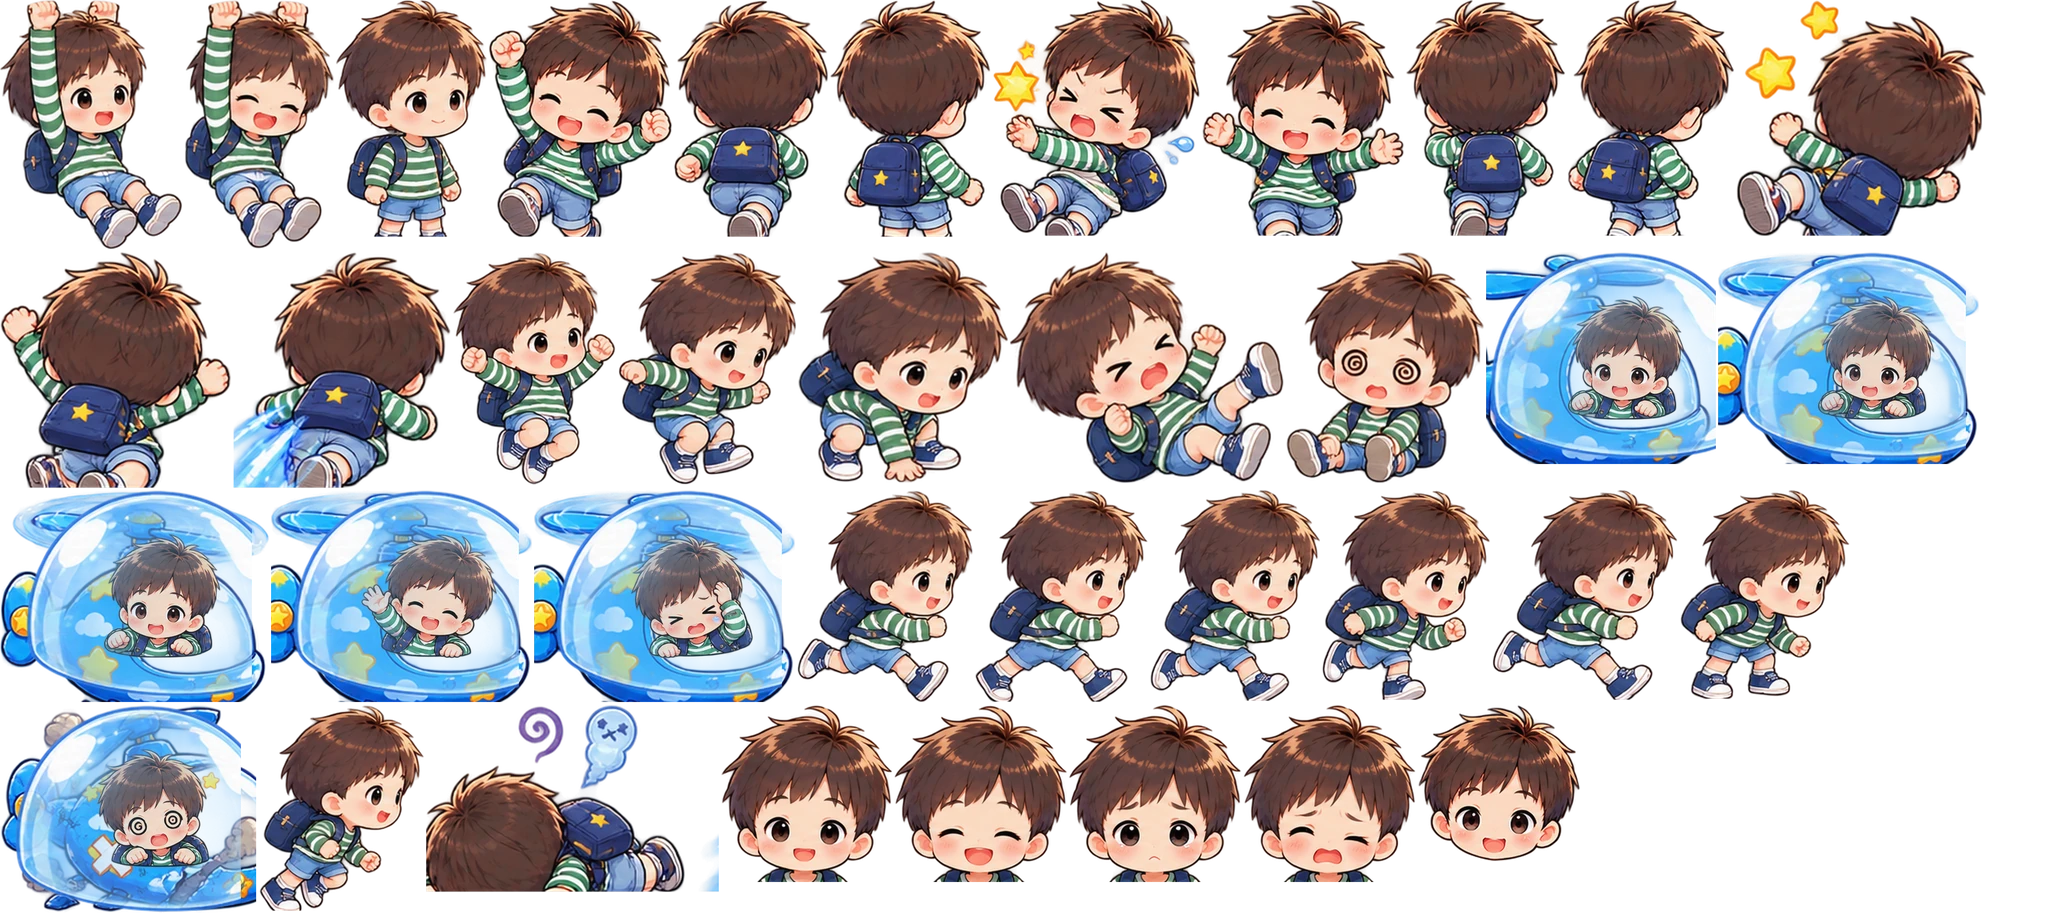
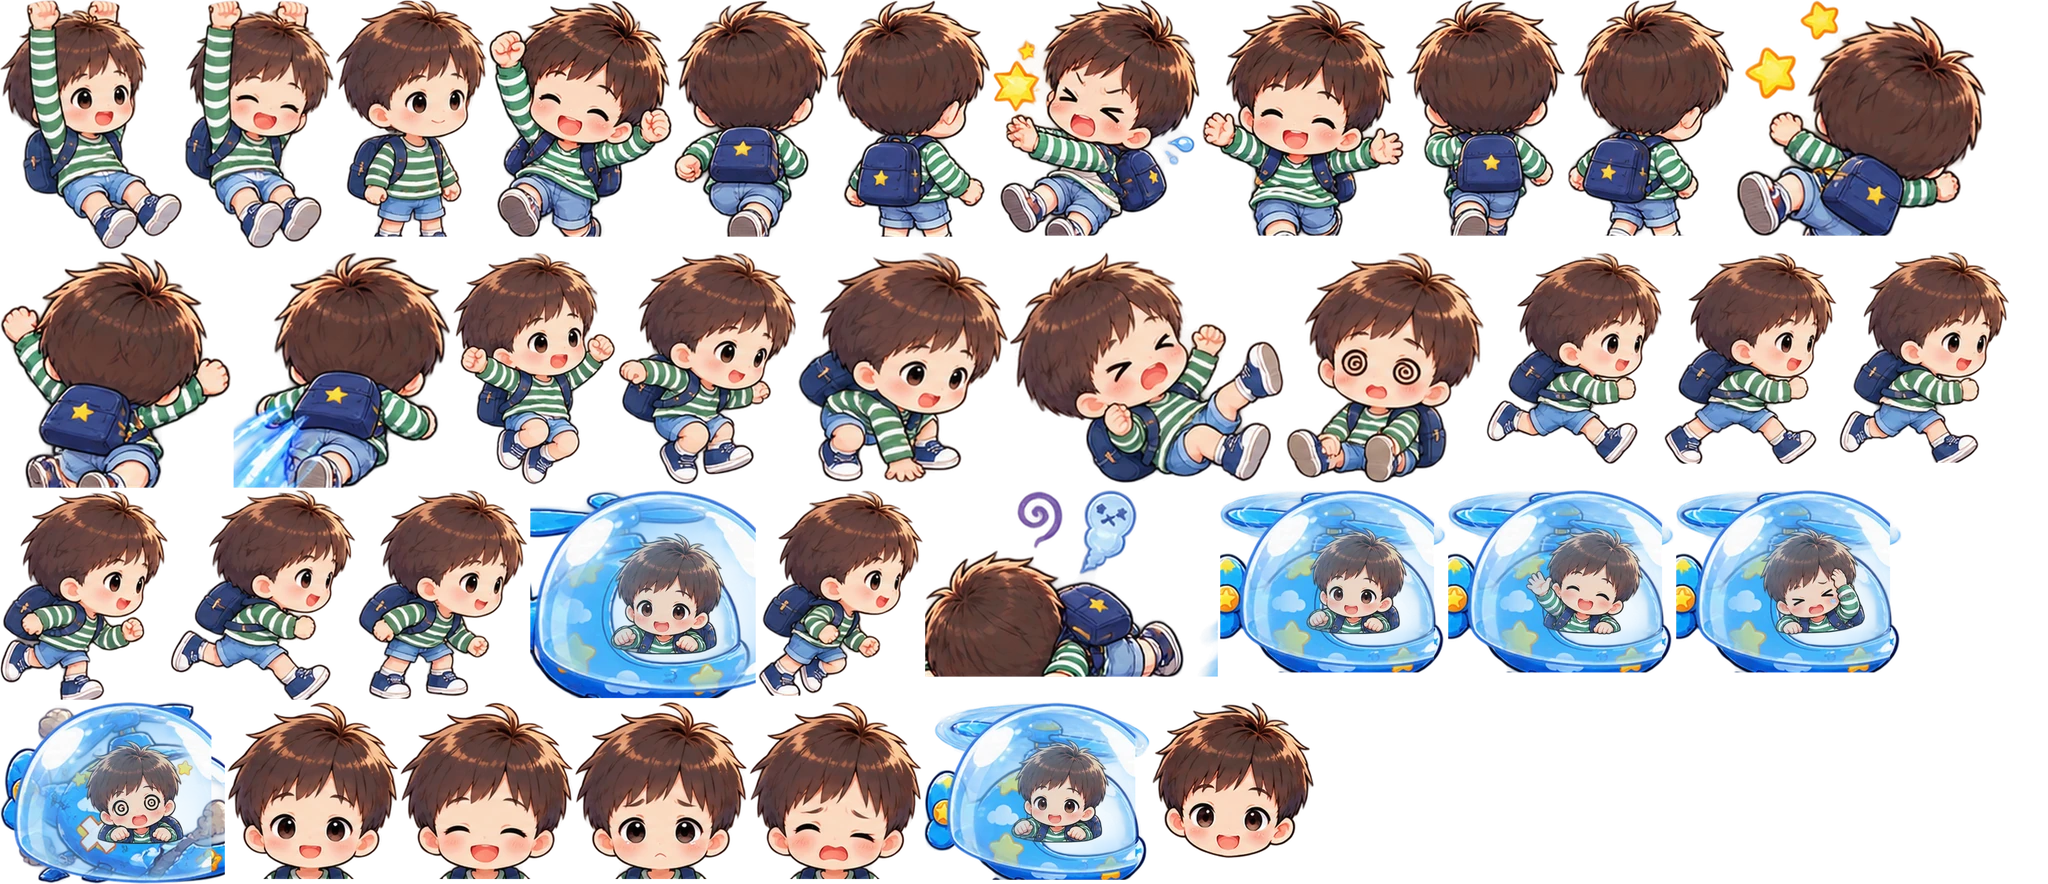
새 캐릭터 은유 v2 추가 (새 그림 팩), 인트로 뒤로 버튼을 디자이너 버튼 그림으로

diff --git a/common/charv2.js b/common/charv2.js
@@ -8,16 +8,16 @@
   // 게임에 쓸 수 있는 v2 캐릭터 (base: 같은 계열 기본 캐릭터 — 색·예비 그림에 씀)
   const LOOKS = {
     eungyeol2: { base: 'eungyeol', name: '은결 v2' },
-    // eunyu2: { base: 'eunyu', name: '은유 v2' },  // 그림 팩을 다시 받으면 build_char_v2.py로 만들고 여기 켜기
+    eunyu2: { base: 'eunyu', name: '은유 v2' },
   };
-  const BODY_H = 393 / 512, FOOT = 488 / 512, HANG = 64 / 512;
+  const BODY_H = 393 / 512, FOOT = 488 / 512;
   const base = (document.currentScript && document.currentScript.src.replace(/common\/charv2\.js.*$/, '')) || '../';
   const atlas = {};
   function load(look) {
     if (!LOOKS[look] || atlas[look]) return;
     const a = atlas[look] = { img: new Image(), f: null, ok: false };
-    fetch(`${base}common/chars/${look}.json?v=20261023s`).then((r) => r.json()).then((j) => {
-      a.f = j.frames; a.img.onload = () => { a.ok = true; }; a.img.src = `${base}common/chars/${look}.webp?v=20261023s`;
+    fetch(`${base}common/chars/${look}.json?v=20261023t`).then((r) => r.json()).then((j) => {
+      a.f = j.frames; a.img.onload = () => { a.ok = true; }; a.img.src = `${base}common/chars/${look}.webp?v=20261023t`;
     }).catch(() => { /* 그림이 없으면 기본 그림으로 */ });
   }
   const get = (look, name) => { const a = atlas[look]; return a && a.ok && a.f[name] ? [a, a.f[name]] : null; };
@@ -33,7 +33,8 @@
       const hit = get(look, name); if (!hit) return false;
       const [a, [x, y, w, h, ox, oy, cw, ch]] = hit;
       const s = (o.h || 118) / (BODY_H * ch);
-      const top = o.anchor === 'hang' ? (o.hangTop != null ? o.hangTop : -100) - HANG * ch * s : -FOOT * ch * s;
+      // 매달리기: 그림 맨 위(줄 잡은 손)가 hangTop에 오게
+      const top = o.anchor === 'hang' ? (o.hangTop != null ? o.hangTop : -100) - oy * s : -FOOT * ch * s;
       g.save();
       if (o.alpha != null) g.globalAlpha *= o.alpha;
       if (o.rot) g.rotate(o.rot);

diff --git a/index.html b/index.html
@@ -105,7 +105,8 @@
       <div class="looks">
         <button class="look" data-look="eunyu"><img src="skyhook/assets/eunyu_base.jpg" alt=""><span>은유 스타일</span></button>
         <button class="look" data-look="eungyeol"><img src="skyhook/assets/eungyeol_base.jpg" alt=""><span>은결 스타일</span></button>
-        <button class="look v2" data-look="eungyeol2"><img src="skyhook/assets/eungyeol2_base.jpg?v=20261023s" alt=""><span>은결 v2 <i class="new">NEW</i></span></button>
+        <button class="look v2" data-look="eunyu2"><img src="skyhook/assets/eunyu2_base.jpg?v=20261023t" alt=""><span>은유 v2 <i class="new">NEW</i></span></button>
+        <button class="look v2" data-look="eungyeol2"><img src="skyhook/assets/eungyeol2_base.jpg?v=20261023t" alt=""><span>은결 v2 <i class="new">NEW</i></span></button>
       </div>
       <label class="name-row">이름 <input id="inName" maxlength="8" autocomplete="off" placeholder="이름 (8글자까지)"></label>
       <div class="p-note">아이템샵에서 게임 배경 스킨과 부스트를 살 수 있어요!</div>
@@ -171,7 +172,7 @@
   <div id="scrTitle" class="title-scr hidden">
     <div id="tsBg" class="ts-bg"></div>
     <img id="tsArt" class="ts-art" alt="">
-    <button id="tsBack" class="ts-back" aria-label="뒤로">←</button>
+    <button id="tsBack" class="ts-back" aria-label="뒤로"><img src="hub/v3/back.png?v=20261023t" alt=""></button>
     <button id="tsStart" class="ts-start"><span class="ts-tri"></span>START</button>
   </div>
 

diff --git a/hub/hub.css b/hub/hub.css
@@ -400,3 +400,8 @@ img[src*="costumes/"] { object-fit: cover; object-position: 50% 0; background: #
 .look .new { font-style: normal; font-size: 11px; background: #FF5C7A; color: #fff; border-radius: 8px; padding: 0 5px; vertical-align: 2px; }
 #root.portrait .looks { flex-wrap: wrap; justify-content: center; }
 #root.portrait .look { width: 128px; }
+.char-card.eunyu2 { border-color: #FFB3CC; background: linear-gradient(#FFF0F6, #fff); }
+
+/* 인트로 화면 뒤로 버튼: 디자이너 버튼 그림 */
+.title-scr .ts-back { width: clamp(56px, 8vh, 76px); height: auto; aspect-ratio: 192 / 188; background: none; box-shadow: none; border-radius: 50%; padding: 0; filter: drop-shadow(0 4px 8px rgba(0,0,0,.25)); }
+.title-scr .ts-back img { display: block; width: 100%; height: 100%; }

diff --git a/shop/shop.js b/shop/shop.js
@@ -187,7 +187,7 @@ function renderDress() {
   for (const ch of Hub.chars()) {
     const b = document.createElement('button'); b.className = `dwho ${ch.look}` + (ch.id === c.id ? ' on' : '');
     b.innerHTML = `<img src="${faceOf(ch)}" alt=""><span></span>`;
-    b.querySelector('span').textContent = `${ch.name} (${ch.look === 'eunyu' ? '핑크' : '블루'})`;
+    b.querySelector('span').textContent = `${ch.name} (${ch.look.startsWith('eunyu') ? '핑크' : '블루'})`;
     b.onclick = () => { if (ch.id === c.id) return; blip(); Hub.setActive(ch.id); renderHeader(); renderAll(); openDress(); };
     who.appendChild(b);
   }

diff --git a/skyhook/index.html b/skyhook/index.html
@@ -114,7 +114,7 @@
   <div id="rotateHint" class="hidden">가로로 돌리면 더 크게 볼 수 있어요 ↻</div>
 </div>
 <script src="../common/profile.js?v=20261023k"></script>
-<script src="../common/charv2.js?v=20261023s"></script>
+<script src="../common/charv2.js?v=20261023t"></script>
 <script src="../common/costume.js?v=20261023k"></script>
 <script src="../common/skins.js?v=20261023k"></script>
 <script src="game.js?v=20261023k"></script>

diff --git a/helicopter/index.html b/helicopter/index.html
@@ -92,7 +92,7 @@
   <div id="rotateHint" class="hidden">가로로 돌리면 더 크게 볼 수 있어요 ↻</div>
 </div>
 <script src="../common/profile.js?v=20261023k"></script>
-<script src="../common/charv2.js?v=20261023s"></script>
+<script src="../common/charv2.js?v=20261023t"></script>
 <script src="../common/costume.js?v=20261023k"></script>
 <script src="../common/skins.js?v=20261023k"></script>
 <script src="game.js?v=20261023k"></script>

diff --git a/stairs/index.html b/stairs/index.html
@@ -96,7 +96,7 @@
   <div id="rotateHint" class="hidden">📱 세로로 세워서 하면 더 크게 보여요</div>
 </div>
 <script src="../common/profile.js?v=20261023k"></script>
-<script src="../common/charv2.js?v=20261023s"></script>
+<script src="../common/charv2.js?v=20261023t"></script>
 <script src="../common/costume.js?v=20261023k"></script>
 <script src="../common/skins.js?v=20261023k"></script>
 <script src="game.js?v=20261023k"></script>

diff --git a/downhill/index.html b/downhill/index.html
@@ -88,7 +88,7 @@
   </div>
 </div>
 <script src="../common/profile.js?v=20261023k"></script>
-<script src="../common/charv2.js?v=20261023s"></script>
+<script src="../common/charv2.js?v=20261023t"></script>
 <script src="../common/costume.js?v=20261023k"></script>
 <script src="../common/skins.js?v=20261023k"></script>
 <script src="game.js?v=20261023b"></script>

diff --git a/shisen/index.html b/shisen/index.html
@@ -90,7 +90,7 @@
 </div>
 <script src="../common/profile.js?v=20261023k"></script>
 <script src="../common/skins.js?v=20261023k"></script>
-<script src="../common/charv2.js?v=20261023s"></script>
+<script src="../common/charv2.js?v=20261023t"></script>
 <script src="../common/costume.js?v=20261023k"></script>
 <script src="game.js?v=20261023k"></script>
 </body>

diff --git a/common/profile.js b/common/profile.js
@@ -126,7 +126,7 @@
   };
 
   // 캐릭터 모양: 기본 은유·은결 + 새 캐릭터 v2 (그림은 common/chars, common/charv2.js)
-  const LOOKS = ['eunyu', 'eungyeol', 'eungyeol2'];
+  const LOOKS = ['eunyu', 'eungyeol', 'eunyu2', 'eungyeol2'];
   // 옷(코스튬) 그림이 있는 캐릭터
   const DRESSABLE = ['eunyu', 'eungyeol'];
 

diff --git a/tools/build_char_v2.py b/tools/build_char_v2.py
@@ -1,6 +1,7 @@
 """캐릭터 v2 팩(character/<캐릭터>_character_v2_png_assets)을 게임용 파일로 만든다.
 
-사용: python3 tools/build_char_v2.py eungyeol eungyeol2
+사용: python3 tools/build_char_v2.py eungyeol eungyeol2 [그림 폴더]
+  그림 폴더를 안 주면 character/<캐릭터>_character_v2_png_assets/character_v2/<캐릭터>/base
   - common/chars/<look>.webp + .json : 모든 게임이 쓰는 포즈 아틀라스 (common/charv2.js가 읽음)
   - 메뉴·결과 화면용 얼굴/전신 그림 (기존 파일 이름 규칙 그대로)
 """
@@ -11,7 +12,8 @@ from scipy import ndimage as nd
 
 src_name, look = sys.argv[1], sys.argv[2]
 ROOT = os.path.dirname(os.path.dirname(os.path.abspath(__file__)))
-SRC = f'{ROOT}/character/{src_name}_character_v2_png_assets/character_v2/{src_name}/base/{src_name}_base_'
+SRC_DIR = sys.argv[3] if len(sys.argv) > 3 else f'{ROOT}/character/{src_name}_character_v2_png_assets/character_v2/{src_name}/base'
+SRC = f'{SRC_DIR}/{src_name}_base_'
 BG = {'eunyu': (255, 228, 238), 'eungyeol': (221, 238, 255)}[src_name]
 
 def load(p):
@@ -37,16 +39,40 @@ BODY = ['idle', 'ready', 'run_0', 'run_1', 'run_2', 'run_3', 'run_4', 'run_5', '
         'swing_0', 'swing_1', 'hit', 'dizzy', 'happy', 'cheer', 'dead',
         'back_run_0', 'back_run_1', 'back_left', 'back_right', 'back_hit', 'back_happy', 'back_dead', 'back_boost']
 frames = {}  # name -> (image, scale)
-for p in BODY: frames[p] = (clean(load(p), p in STRAYS), 0.6)
-frames['tile_face'] = (load('tile_face'), 0.75)
-for p in ['face_base', 'face_happy', 'face_sad', 'face_hurt']: frames[p] = (load(p), 0.5)
+def body(p):
+    im = clean(load(p), p in STRAYS)
+    if im.width != 512: im = im.resize((512, 512), Image.LANCZOS)
+    bb = im.getchannel('A').point(lambda v: 255 if v > 20 else 0).getbbox()
+    if bb and bb[3] < 470 and not p.startswith('swing'):  # 발이 떠 있음 → 키를 맞추고 발을 488에
+        part = im.crop(bb); k = REF_H / part.height
+        part = part.resize((round(part.width * k), round(part.height * k)), Image.LANCZOS)
+        im = Image.new('RGBA', (512, 512)); cx = (bb[0] + bb[2]) // 2
+        im.alpha_composite(part, (cx - part.width // 2, 488 - part.height))
+    return im
+hs = []
+for p in BODY:
+    bb = load(p).getchannel('A').point(lambda v: 255 if v > 20 else 0).getbbox()
+    if bb and bb[3] >= 470: hs.append(bb[3] - bb[1])
+REF_H = sorted(hs)[len(hs) // 2]
+for p in BODY: frames[p] = (body(p), 0.6)
+frames['tile_face'] = (load('tile_face'), 192 / load('tile_face').width)
+for p in ['face_base', 'face_happy', 'face_sad', 'face_hurt']: frames[p] = (load(p), 256 / load(p).width)
 # 헬리콥터: 몸체 + 조종사 + 유리를 미리 합쳐 둠 (조종사는 창문 가운데)
 glass = load('heli_glass')
 def heli(body, pilot):
-    c = load(body).copy(); s = 0.85
-    pi = load(pilot).resize((int(512 * s), int(512 * s)), Image.LANCZOS)
-    c.alpha_composite(pi, (int(575 - 256 * s), int(335 - 256 * s)))
-    c.alpha_composite(glass); return c
+    b = load(body)
+    if b.width == 1024:  # 1024×640 팩: 몸체 → 조종사(창문 가운데에 맞춰 줄임) → 유리
+        c = b.copy(); s = 0.85
+        pi = load(pilot).resize((int(512 * s), int(512 * s)), Image.LANCZOS)
+        c.alpha_composite(pi, (int(575 - 256 * s), int(335 - 256 * s)))
+        c.alpha_composite(glass)
+    else:  # 512 팩: 같은 좌표에 조종사 → 몸체 → 유리 (조종사 아래쪽이 몸체에 가려짐)
+        c = Image.new('RGBA', b.size); c.alpha_composite(load(pilot)); c.alpha_composite(b); c.alpha_composite(glass)
+    # 팩마다 여백이 달라서, 헬기가 캔버스 폭의 55%가 되게 다시 맞춤 (게임에서 같은 크기로 보이게)
+    bb = c.getchannel('A').point(lambda v: 255 if v > 8 else 0).getbbox(); part = c.crop(bb)
+    cw = round(part.width / 0.55); ch = round(cw * 640 / 1024)
+    out = Image.new('RGBA', (cw, ch)); out.alpha_composite(part, ((cw - part.width) // 2, (ch - part.height) // 2))
+    return out.resize((1024, 640), Image.LANCZOS)
 for i in range(3): frames[f'heli_{i}'] = (heli(f'heli_body_{i}', 'pilot_fly'), 0.4)
 frames['heli_happy'] = (heli('heli_body_1', 'pilot_happy'), 0.4)
 frames['heli_hurt'] = (heli('heli_body_1', 'pilot_hurt'), 0.4)
@@ -88,5 +114,5 @@ trim(load('face_base'), 138).save(f'{ROOT}/helicopter/assets/face_{look}.png', o
 trim(heli('heli_body_crash', 'pilot_dizzy'), 200).save(f'{ROOT}/helicopter/assets/{look}_crash.png', optimize=True)
 for k, p in [('idle', 'idle'), ('happy', 'happy'), ('dead', 'dead')]:
     trim(clean(load(p), p in STRAYS), 240).save(f'{ROOT}/stairs/assets/{look}_{k}.png', optimize=True)
-trim(load('front_stand'), 600).save(f'{ROOT}/common/costumes/{look}_base.png', optimize=True)
+trim(load('front_stand'), 600 if load('front_stand').width >= 1024 else 460).save(f'{ROOT}/common/costumes/{look}_base.png', optimize=True)
 print(look, 'frames', len(meta), 'atlas', atlas.size, os.path.getsize(f'{ROOT}/common/chars/{look}.webp') // 1024, 'KB')
